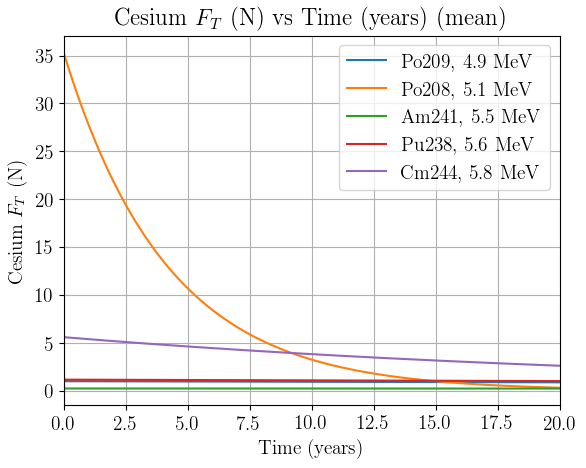
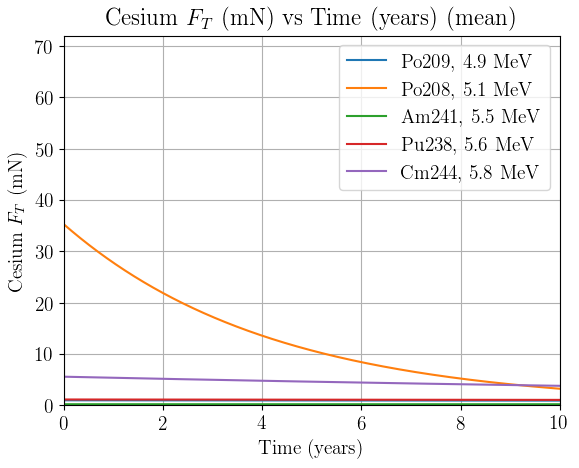
plots in update

diff --git a/SEPTIR_plotter.py b/SEPTIR_plotter.py
@@ -15,7 +15,8 @@ mpl.rcParams.update({'font.size': 14})
 rc('text', usetex=True)
 
 #-----------------classes-----------------#
-class Constants(object):	#-----------------CONSTANTS USED IN SCRIPT-----------------#
+class Constants(object):
+	#-----------------CONSTANTS USED IN SCRIPT-----------------#
 	#-----------------assumes 100% ionization in chamber-----------------#
 	pct_chamber_ionized = 1
 	#-----------------num of alphas used in G4 sim-----------------#
@@ -23,17 +24,21 @@ class Constants(object):	#-----------------CONSTANTS USED IN SCRIPT-------------
 	#-----------------chmaber volume from prelim CAD model, 1P unit-----------------#
 	Chamber_volume = pct_chamber_ionized*(np.pi*2**2)*4 # cm3
 	#-----------------mission duration, 20 years in seconds-----------------#
-	duration = np.arange(0,20*3.1536e7,86400) # s
-	#-----------------initial radioisotope mass, proportional to propellant mass flow rate-----------------#
-	RI_m0 = 1 # g
-	#-----------------avogadro's number-----------------#
-	N_A = 6.02e23 # atoms/mol
+	duration = np.arange(0,10*3.1536e7,86400) # s
+	#-----------------initial radioisotope mass (g), proportional to propellant mass flow rate-----------------#
+	RI_m0 = 1.
+	#-----------------spacecraft initial mass (g)-----------------#
+	S_m0 = 750. 
+	#-----------------zeta, propellant mass fraction-----------------#
+	zeta = .2
+	#-----------------avogadro's number (atoms/mol)-----------------#
+	N_A = 6.02e23 
 	#-----------------first/mean ionization efficiencies-----------------#
 	first_or_mean = "mean"
 	#-----------------plot bounds-----------------#
-	xbounds = [0,20] # years
-	ybounds = [0,7] # mg/s
-	ybounds_Bool = False
+	xbounds = [0,max(duration)/3.1536e7] # years
+	ybounds = [0,3] # mg/s
+	ybounds_Bool = True 
 	#-----------------Isp (s)-----------------#
 	Isp_BIT1 = 1600
 	Isp_BIT3 = 2100
@@ -43,7 +48,7 @@ class Constants(object):	#-----------------CONSTANTS USED IN SCRIPT-------------
 	g0 = 9.8 
 	#-----------------plotted data-----------------#
 	plotted_data_list = ["mdot", "Fthrust"]
-	plotted_data = "Fthrust"
+	plotted_data = "mdot"
 	#-----------------saved file directory-----------------#
 	saved_file_directory = "/home/nasa01/Documents/howe_internship/axis/AXIS_Report_II_Plots/"
 	save_bool = False
@@ -58,27 +63,43 @@ class Radioisotope(object):
 		self.HL = half_life*3.1536e7 # ** years to seconds
 		self.SA = specific_activity
 		self.energy = alpha_energy
+
 class Propellant(object):
 
 	def __init__(self, name, atomic_number, molar_mass):
 		self.name = name
 		self.Z = atomic_number
 		self.M = molar_mass
+
 class Calculator(object):
 
 	def __init__(self):
 		pass
 
 	def calc(self, prop_molar_mass, max_ionizations_per_alpha, spec_rad, half_life,Isp):
-		mdot = np.multiply(prop_molar_mass*max_ionizations_per_alpha*spec_rad*Constants().RI_m0/Constants().N_A,
-										  np.exp(np.multiply(Constants().duration,
-										  					 np.float(-0.693/half_life))))
-		# mTotal = 
+		#-----------------common throughout calcs, declared here-----------------#
+		coefficient = prop_molar_mass*max_ionizations_per_alpha*spec_rad*Constants().RI_m0/Constants().N_A
 
-		Fthrust = mdot*Isp*Constants().g0
+		#-----------------propellant mass flow rate (g/s)-----------------#
+		mdot = np.multiply(coefficient, np.exp(np.multiply(Constants().duration, np.float(-0.693/half_life))))
+
+		#-----------------total propellant mass that can be ionized and ejected (g)-----------------#
+		mTotal = -coefficient*half_life*(np.exp(-0.693*max(Constants().duration)/half_life)-1)/0.693
+
+		#-----------------time-dependent thrust (N)-----------------#
+		Fthrust = mdot*Isp*Constants().g0/1000 # convert mdot from g/s to kg/s
+
+		#-----------------delta v calc from propellant mass-----------------#
+		del_v = Isp*Constants().g0*np.log(Constants().S_m0/(Constants().S_m0 - Constants().S_m0*Constants().zeta))
+		
+		#-----------------time when prop runs out (years)-----------------#
+		t_empty = -half_life/0.693*np.log(1 - (Constants().S_m0*Constants().zeta*0.693/(half_life*coefficient)))*1.15741e-5
 
 		results_dict = dict(zip(Constants().plotted_data_list,
 								[mdot, Fthrust]))
+
+
+		# print "Del v ", del_v, " m/s"
 
 		return results_dict[Constants().plotted_data]
 
@@ -97,16 +118,17 @@ class MaterialAssignment():
 		Pu238 = Radioisotope("Pu238",94,238.04956,97.8,0.643e12,5.6)
 		Cm244 = Radioisotope("Cm244",96,244.06275,18.1,3.03e12,5.8)
 		#-----------------propellants-----------------#
-		cesium = Propellant("cesium",55,132.90545)
-		bismuth = Propellant("bismuth",83,208.9804)
-		xenon = Propellant("xenon",54,208.9804)
-		mercury = Propellant("mercury",80,208.9804)
-		iodine = Propellant("iodine",53,208.9804)
+		cesium = Propellant("cesium",55,132.91)
+		bismuth = Propellant("bismuth",83,208.98)
+		xenon = Propellant("xenon",54,131.29)
+		mercury = Propellant("mercury",80,200.59)
+		iodine = Propellant("iodine",53,126.90)
 		#-----------------------------------------------------#
 		radioisotope_list = [Po209,Po208,Am241,Pu238,Cm244]
 		propellants_list = [cesium,bismuth,xenon,mercury,iodine]
 
 		return radioisotope_list, propellants_list
+
 class XYPlotter(object):
 	def __init__(self, plot_data_list):
 		#-----------------initialize plot-----------------#
@@ -122,7 +144,7 @@ class XYPlotter(object):
 
 		#-----------------plot each RI data set-----------------#
 		for y in ydata:
-			# y *= 1000 # g/s to mg/s
+			y *= 1000 # g/s to mg/s, N to mN
 			self.subplot.plot(x,y)
 
 		#-----------------plot parameters-----------------#
@@ -130,7 +152,7 @@ class XYPlotter(object):
 		if Constants().plotted_data == "mdot":
 			ylabel = propellant.name.capitalize() + " " r'$\dot{m}_{P}$'+ " (mg/s)"
 		if Constants().plotted_data == "Fthrust":
-			ylabel = propellant.name.capitalize() + " " r'${F}_{T}$'+ " (N)"
+			ylabel = propellant.name.capitalize() + " " r'${F}_{T}$'+ " (mN)"
 
 		self.subplot.set_xlabel(xlabel)
 		self.subplot.set_xlim(Constants().xbounds)
@@ -154,6 +176,7 @@ class XYPlotter(object):
 					   Constants().first_or_mean
 			self.fig.savefig(file_loc,bbox_inches='tight')
 			print file_loc
+
 class DataScanner(object):
 	#-----------------reads data from files-----------------#
 	def __init__(self):
@@ -173,6 +196,7 @@ class DataScanner(object):
 					instance.append(float(element))
 				full_data.append(instance)
 			return np.array(full_data).flatten()
+
 class DataProcessor(object):
 	#-----------------collects data and runs calcs funcs on it-----------------#
 	def __init__(self):
@@ -202,12 +226,15 @@ class DataProcessor(object):
 		#---------------------------------------------------------#
 		#-----------------calculate ionizations/alpha-----------------#
 		IE = max(total_ioniz_nums)/Constants().num_alphas
+		# print "IE: ", IE
 		#-----------------calc stuff w/ IE -----------------#
 		calc_data = Calculator().calc(propellant.M,
 								 IE,
 								 radioisotope.SA,
 								 radioisotope.HL,
 								 Constants().Isp_Tigris)
+
+		# print propellant.name, radioisotope.name, "\n"
 
 		
 		return propellant, [radioisotope, calc_data]
@@ -231,7 +258,7 @@ def main():
 		propellant = prop[0][0]
 		prop_plot_data = [propellant] + list(np.concatenate(prop)[1::2])
 		XYPlotter(prop_plot_data)
-		
+
 	#-----------------show plots-----------------#
 	plt.show()
 
